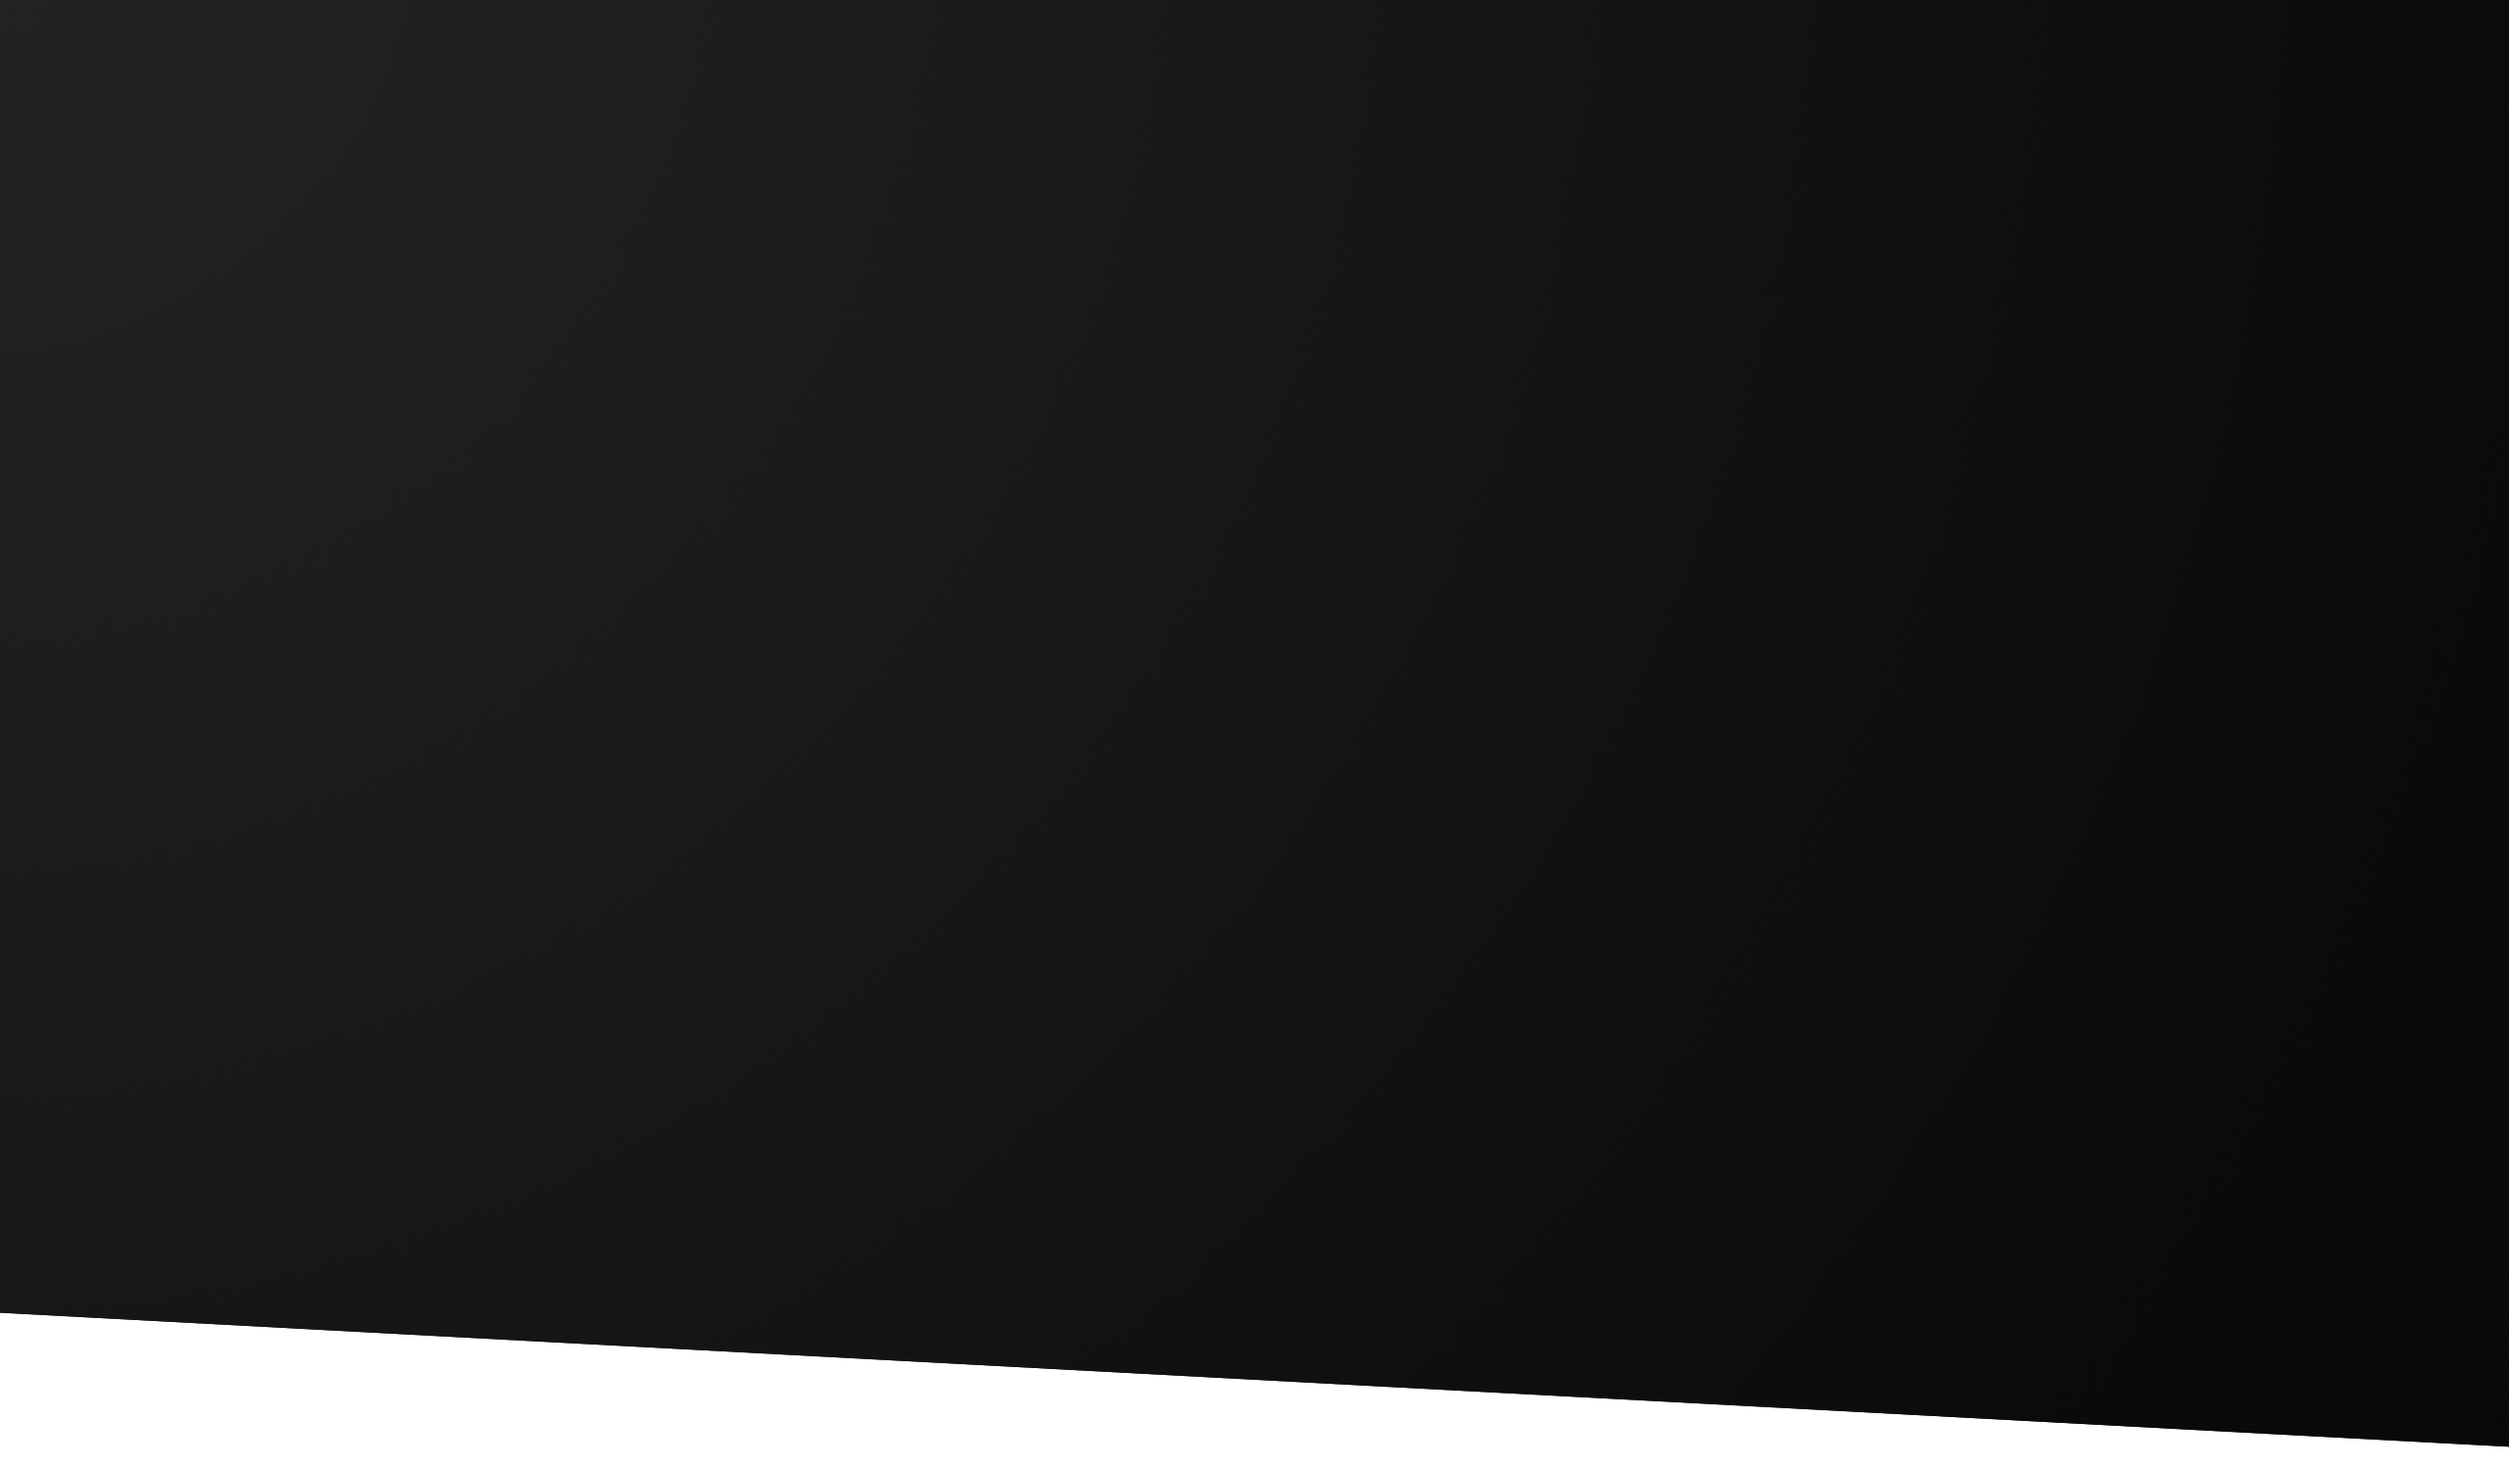
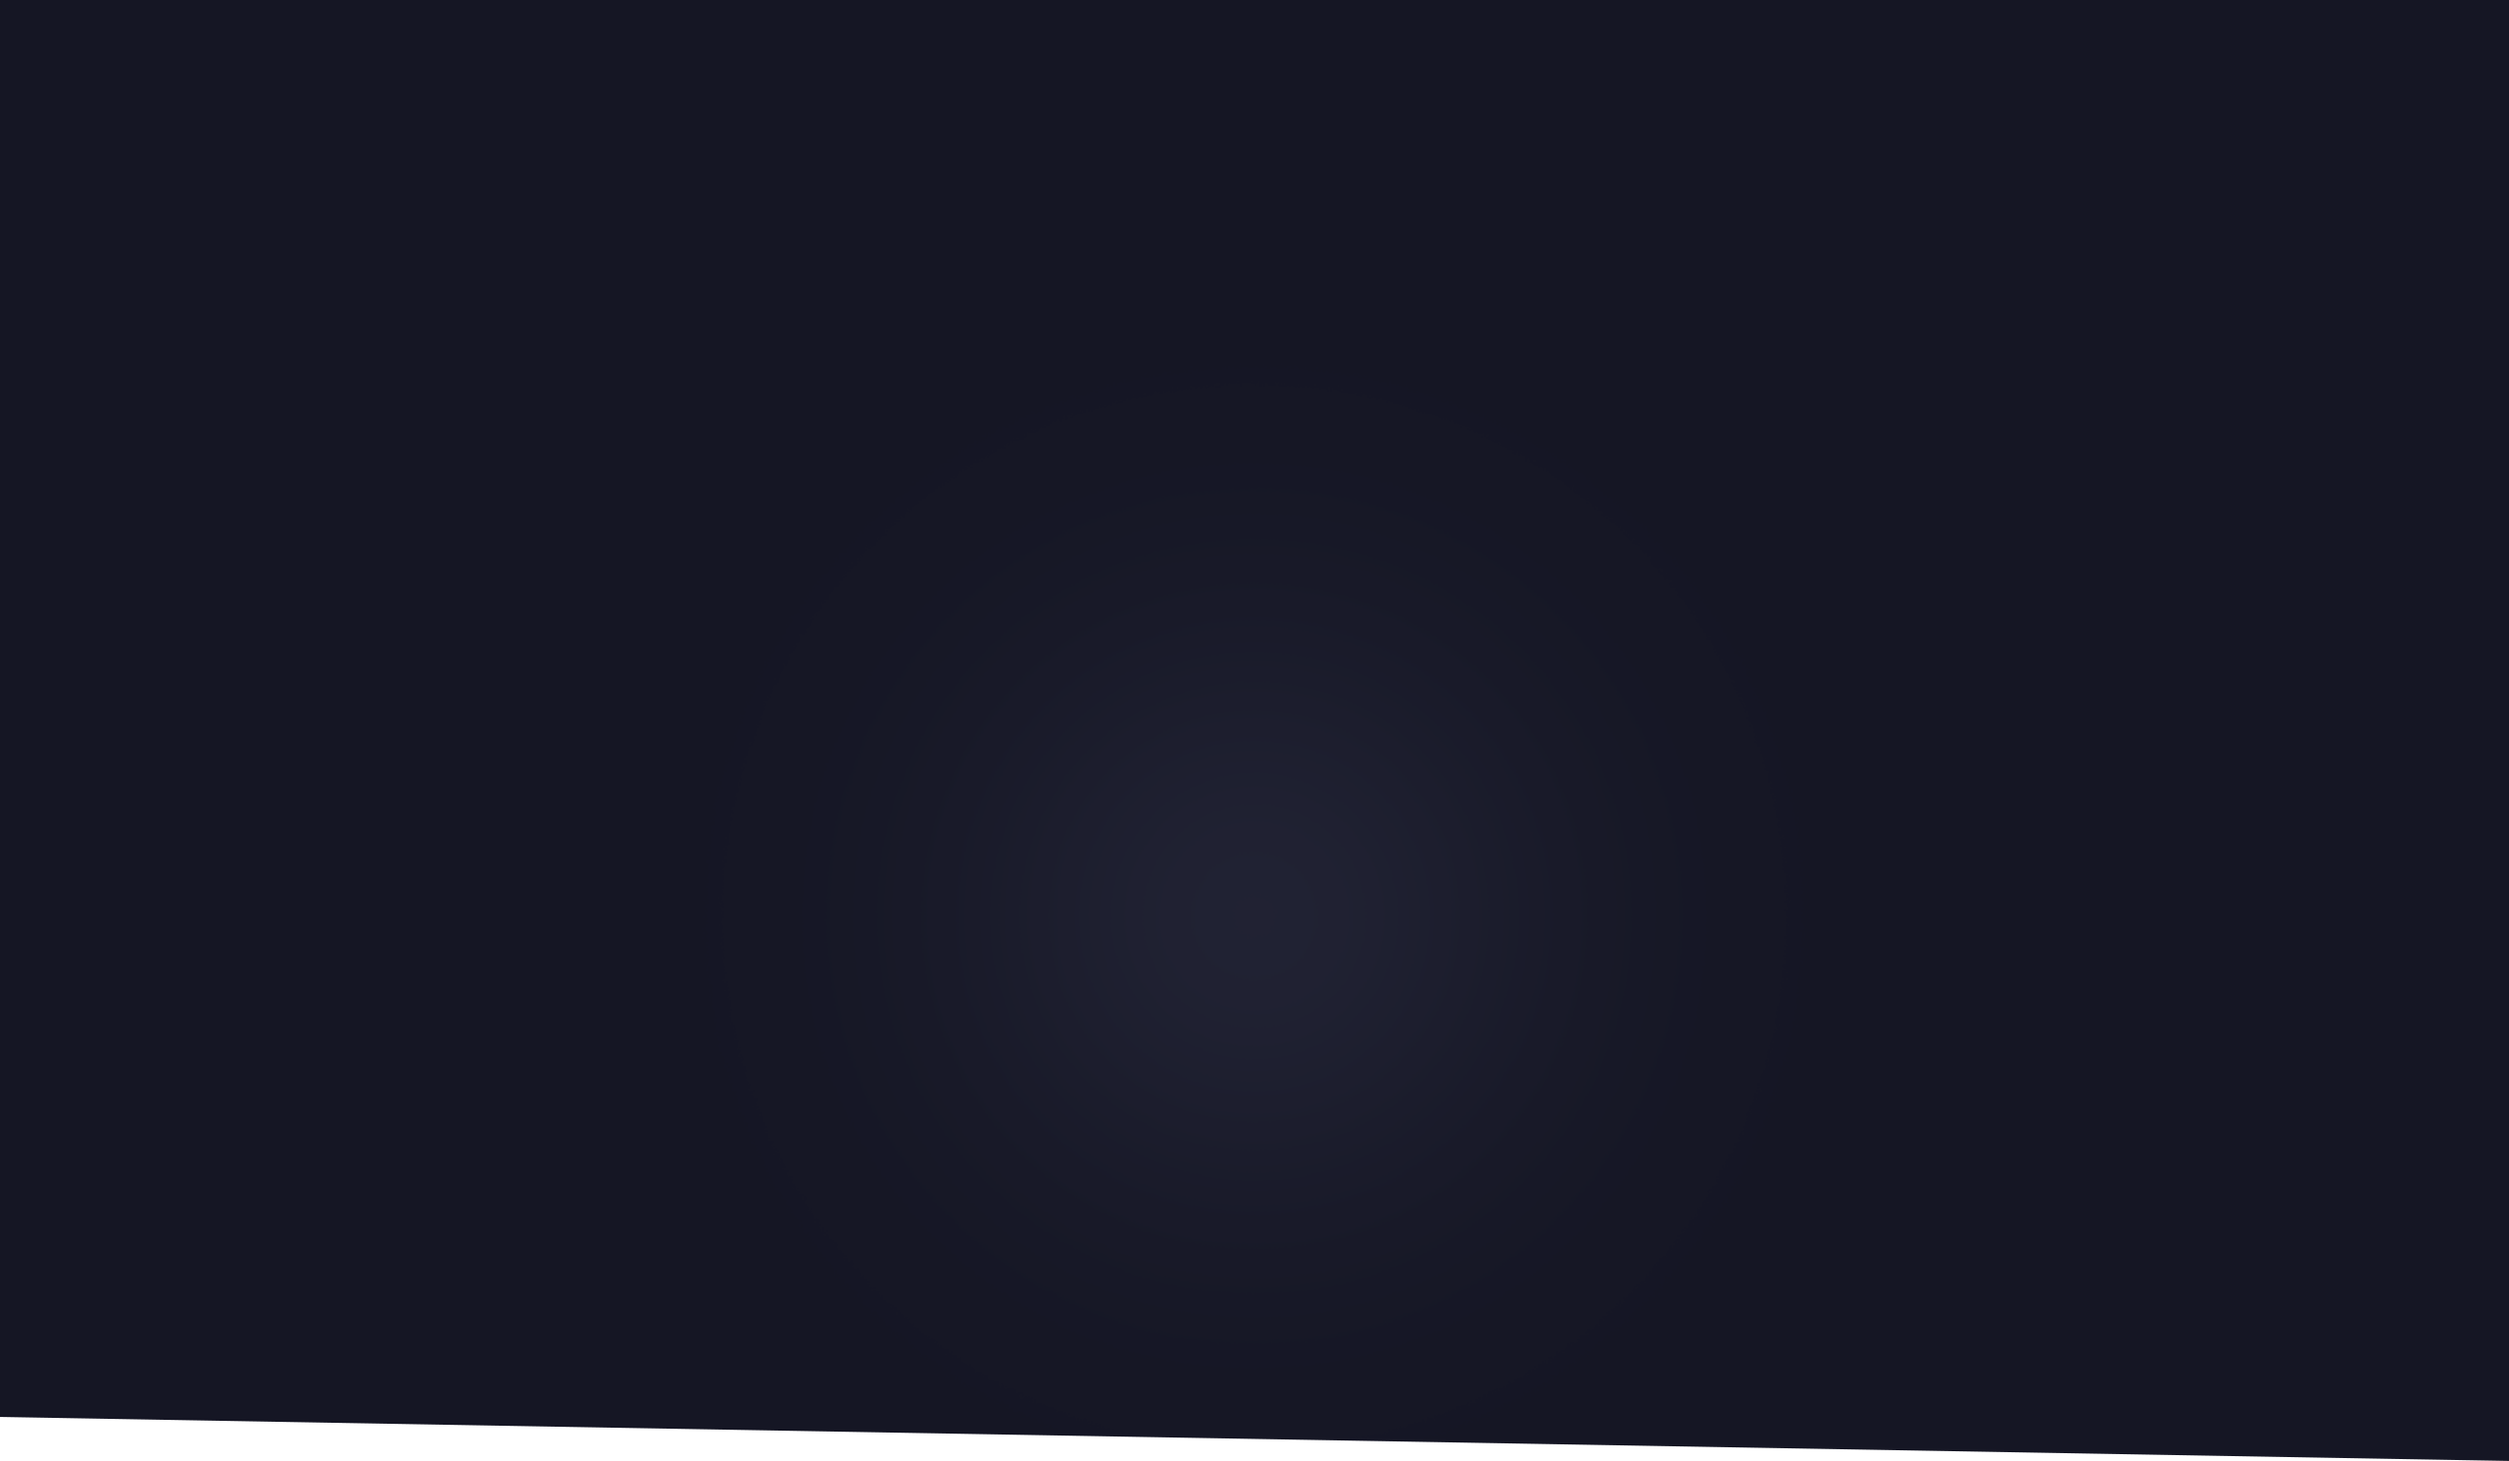
d

Changed region(s): [[0.0, 0.0, 1.0, 1.0], [0.4062, 0.4628, 0.625, 0.833]]

diff --git a/css/shop.css b/css/shop.css
@@ -5,6 +5,7 @@ body {
   font-family: 'Montserrat', sans-serif;
   margin: 0;
   padding: 0;
+  background: #0e0e0e;
 }
 
 .nav {
@@ -176,6 +177,7 @@ a {
   margin: 40px;
   top: -400px;
   position: relative;
+  padding-bottom: 30px;
 }
 
 .card, img {
@@ -189,10 +191,10 @@ a {
 
 .container-header {
   text-align: center;
-  padding: 2px 16px;
+  padding: 40px 16px;
   padding-bottom: 20px;
   background: url("/image/shopbg-1.png") center center no-repeat;
-  background-size: auto;
+  background-size: cover;
 }
 
 .container i {

diff --git a/shop.html b/shop.html
@@ -100,7 +100,7 @@
       <li><i class="fas fa-shipping-fast"></i>Instant Delivery</li>
       <li><i class="fas fa-envelope"></i>Fast Support</li>
     </div>
-    </div>
+
 
 
   <div class="main-content">
@@ -213,6 +213,7 @@
           </button>
         </div>
       </div>
+    </div>
     </div>
 
 
